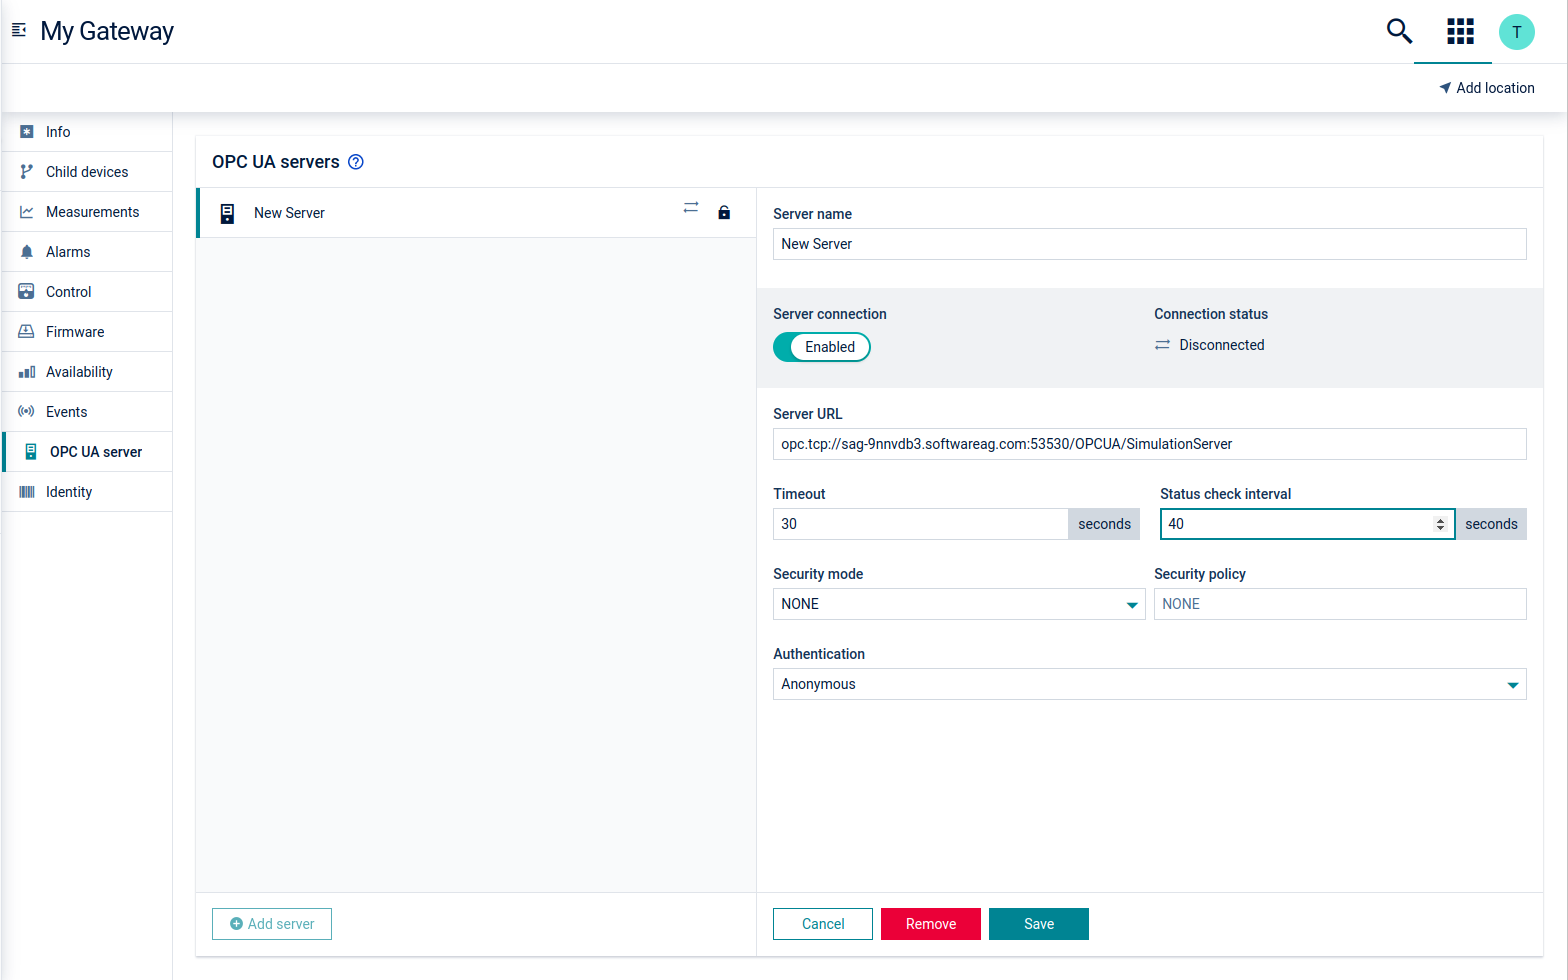
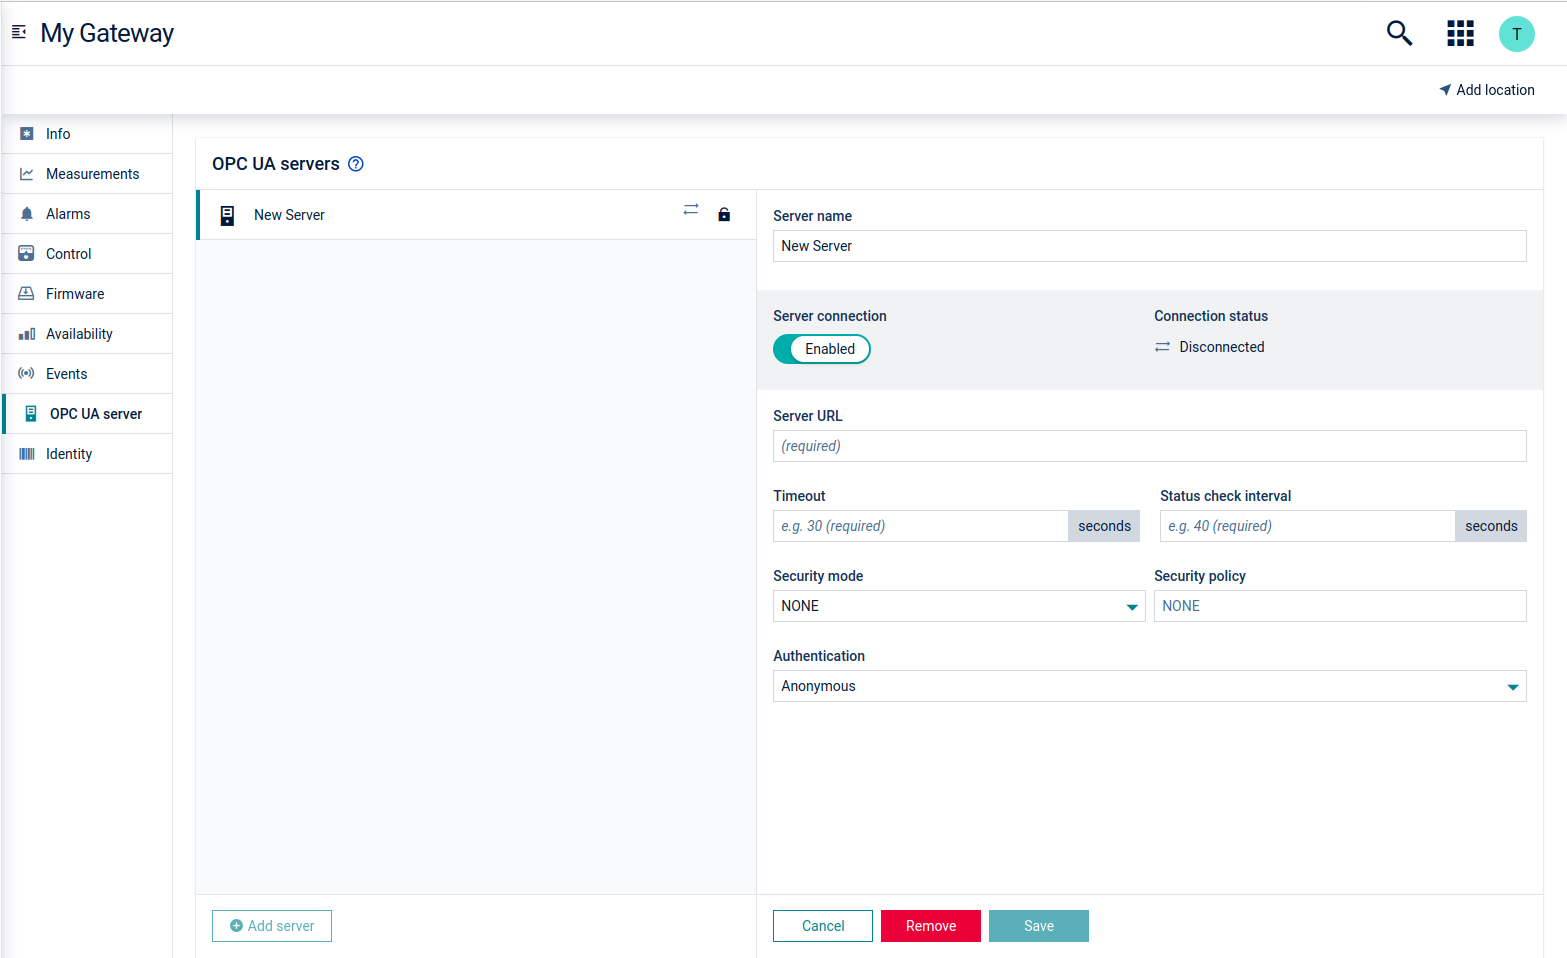
DM-1978: Replaced screenshots for Opcua Protocol Integration, removed screenshots of 3rd party app.

diff --git a/content/protocol-integration/opcua-bundle/authentication.md b/content/protocol-integration/opcua-bundle/authentication.md
@@ -30,8 +30,7 @@ With the above command, the key pass is set to the same value as the keystore pa
 
 ![terminal](/images/device-protocols/opcua/opcua-terminal.png)
 
-The keystore can then be verified by using a tool like KeystoreExplorer.
-The keystore can then be uploaded as binary in {{< product-c8y-iot >}} and it can be used in the server configuration.
+The keystore can then be verified by using a tool like KeystoreExplorer. It can then be uploaded as binary in {{< product-c8y-iot >}} and it can be used in the server configuration.
 
 ![Opcua Keystore](/images/device-protocols/opcua/opcua-keystore.png)
 
